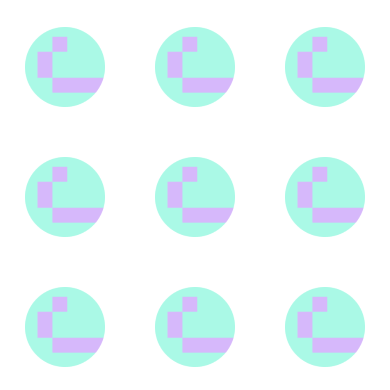
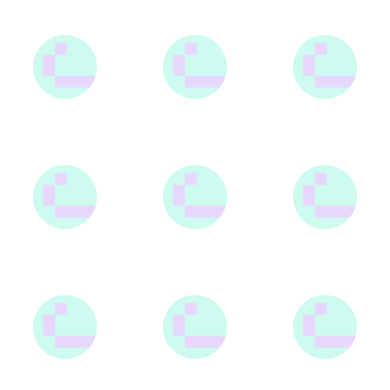
rest of theme

diff --git a/tailwind.config.js b/tailwind.config.js
@@ -468,36 +468,36 @@ module.exports = {
         },
         'monke-theme': {
           active: {
-            DEFAULT: 'hsl(46, 100%, 55%)',
-            dark: 'hsl(46, 100%, 50%)',
+            DEFAULT: 'hsl(46, 100%, 75%)',
+            dark: 'hsl(46, 100%, 70%)',
           },
           button: {
-            DEFAULT: 'hsl(204, 63%, 49%)',
-            hover: 'hsl(204, 63%, 40%)',
+            DEFAULT: 'hsl(166, 90%, 39%)',
+            hover: 'hsl(166, 90%, 30%)',
           },
           input: {
-            bkg: 'hsl(246, 41%, 40%)',
-            border: 'hsl(199, 31%, 60%)',
-            borderDark: 'hsl(199, 31%, 54%)',
+            bkg: 'hsl(267, 90%, 40%)',
+            border: 'hsl(199, 31%, 50%)',
+            borderDark: 'hsl(199, 31%, 44%)',
           },
           link: { DEFAULT: 'hsl(45, 86%, 62%)', hover: 'hsl(45, 86%, 57%)' },
           down: {
-            DEFAULT: 'hsl(12, 70%, 56%)',
-            dark: 'hsl(12, 70%, 46%)',
-            muted: 'hsl(12, 40%, 46%)',
+            DEFAULT: 'hsl(12, 80%, 66%)',
+            dark: 'hsl(12, 80%, 56%)',
+            muted: 'hsl(12, 50%, 56%)',
           },
           up: {
-            DEFAULT: 'hsl(102, 72%, 44%)',
-            dark: 'hsl(102, 72%, 34%)',
-            muted: 'hsl(102, 32%, 34%)',
+            DEFAULT: 'hsl(166, 90%, 49%)',
+            dark: 'hsl(166, 90%, 29%)',
+            muted: 'hsl(166, 60%, 39%)',
           },
-          error: 'hsl(12, 70%, 56%)',
-          success: 'hsl(102, 72%, 44%)',
+          error: 'hsl(12, 80%, 66%)',
+          success: 'hsl(166, 90%, 49%)',
           warning: 'hsl(24, 100%, 43%)',
-          'bkg-1': 'hsl(267, 90%, 58%)',
-          'bkg-2': 'hsl(267, 90%, 64%)',
-          'bkg-3': 'hsl(267, 90%, 70%)',
-          'bkg-4': 'hsl(267, 90%, 76%)',
+          'bkg-1': 'hsl(267, 90%, 48%)',
+          'bkg-2': 'hsl(267, 90%, 54%)',
+          'bkg-3': 'hsl(267, 90%, 60%)',
+          'bkg-4': 'hsl(267, 90%, 66%)',
           'fgd-1': 'hsl(267, 80%, 98%)',
           'fgd-2': 'hsl(267, 80%, 90%)',
           'fgd-3': 'hsl(267, 80%, 82%)',

diff --git a/styles/colors.ts b/styles/colors.ts
@@ -12,7 +12,7 @@ export const COLORS: Record<string, Record<string, string>> = {
     Olive: '#383629',
     Bonk: '#EE7C2F',
     Pepe: '#2B4521',
-    Monke: '#174421',
+    Monke: '#6F0CE9',
   },
   BKG2: {
     'Mango Classic': '#282433',
@@ -27,7 +27,7 @@ export const COLORS: Record<string, Record<string, string>> = {
     Olive: '#474433',
     Bonk: '#DD7813',
     Pepe: '#375A2B',
-    Monke: '#1F5B2C',
+    Monke: '#7F20F3',
   },
   BKG3: {
     'Mango Classic': '#332e42',
@@ -42,7 +42,7 @@ export const COLORS: Record<string, Record<string, string>> = {
     Olive: '#56523e',
     Bonk: '#E5B55D',
     Pepe: '#446E35',
-    Monke: '#246A34',
+    Monke: '#903DF5',
   },
   BKG4: {
     'Mango Classic': '#3f3851',
@@ -57,7 +57,7 @@ export const COLORS: Record<string, Record<string, string>> = {
     Olive: '#656049',
     Bonk: '#DDA131',
     Pepe: '#51833F',
-    Monke: '#2A7A3B',
+    Monke: '#A05AF6',
   },
   FGD4: {
     'Mango Classic': '#9189ae',
@@ -72,7 +72,7 @@ export const COLORS: Record<string, Record<string, string>> = {
     Olive: '#acaa8b',
     Bonk: '#F3E9AA',
     Pepe: '#88BD75',
-    Monke: '#EBE5AD',
+    Monke: '#B788F2',
   },
   UP: {
     'Mango Classic': '#89B92A',
@@ -87,7 +87,7 @@ export const COLORS: Record<string, Record<string, string>> = {
     Olive: '#4eaa27',
     Bonk: '#FAE34C',
     Pepe: '#50C11F',
-    Monke: '#50C11F',
+    Monke: '#0CEDB9',
   },
   ACTIVE: {
     'Mango Classic': '#f1c84b',
@@ -102,7 +102,7 @@ export const COLORS: Record<string, Record<string, string>> = {
     Olive: '#e7dc83',
     Bonk: '#332910',
     Pepe: '#FAE34C',
-    Monke: '#FFC919',
+    Monke: '#FFE180',
   },
   DOWN: {
     'Mango Classic': '#F84638',
@@ -117,6 +117,6 @@ export const COLORS: Record<string, Record<string, string>> = {
     Olive: '#ee392f',
     Bonk: '#C22E30',
     Pepe: '#DD6040',
-    Monke: '#DD6040',
+    Monke: '#EE7F63',
   },
 }
